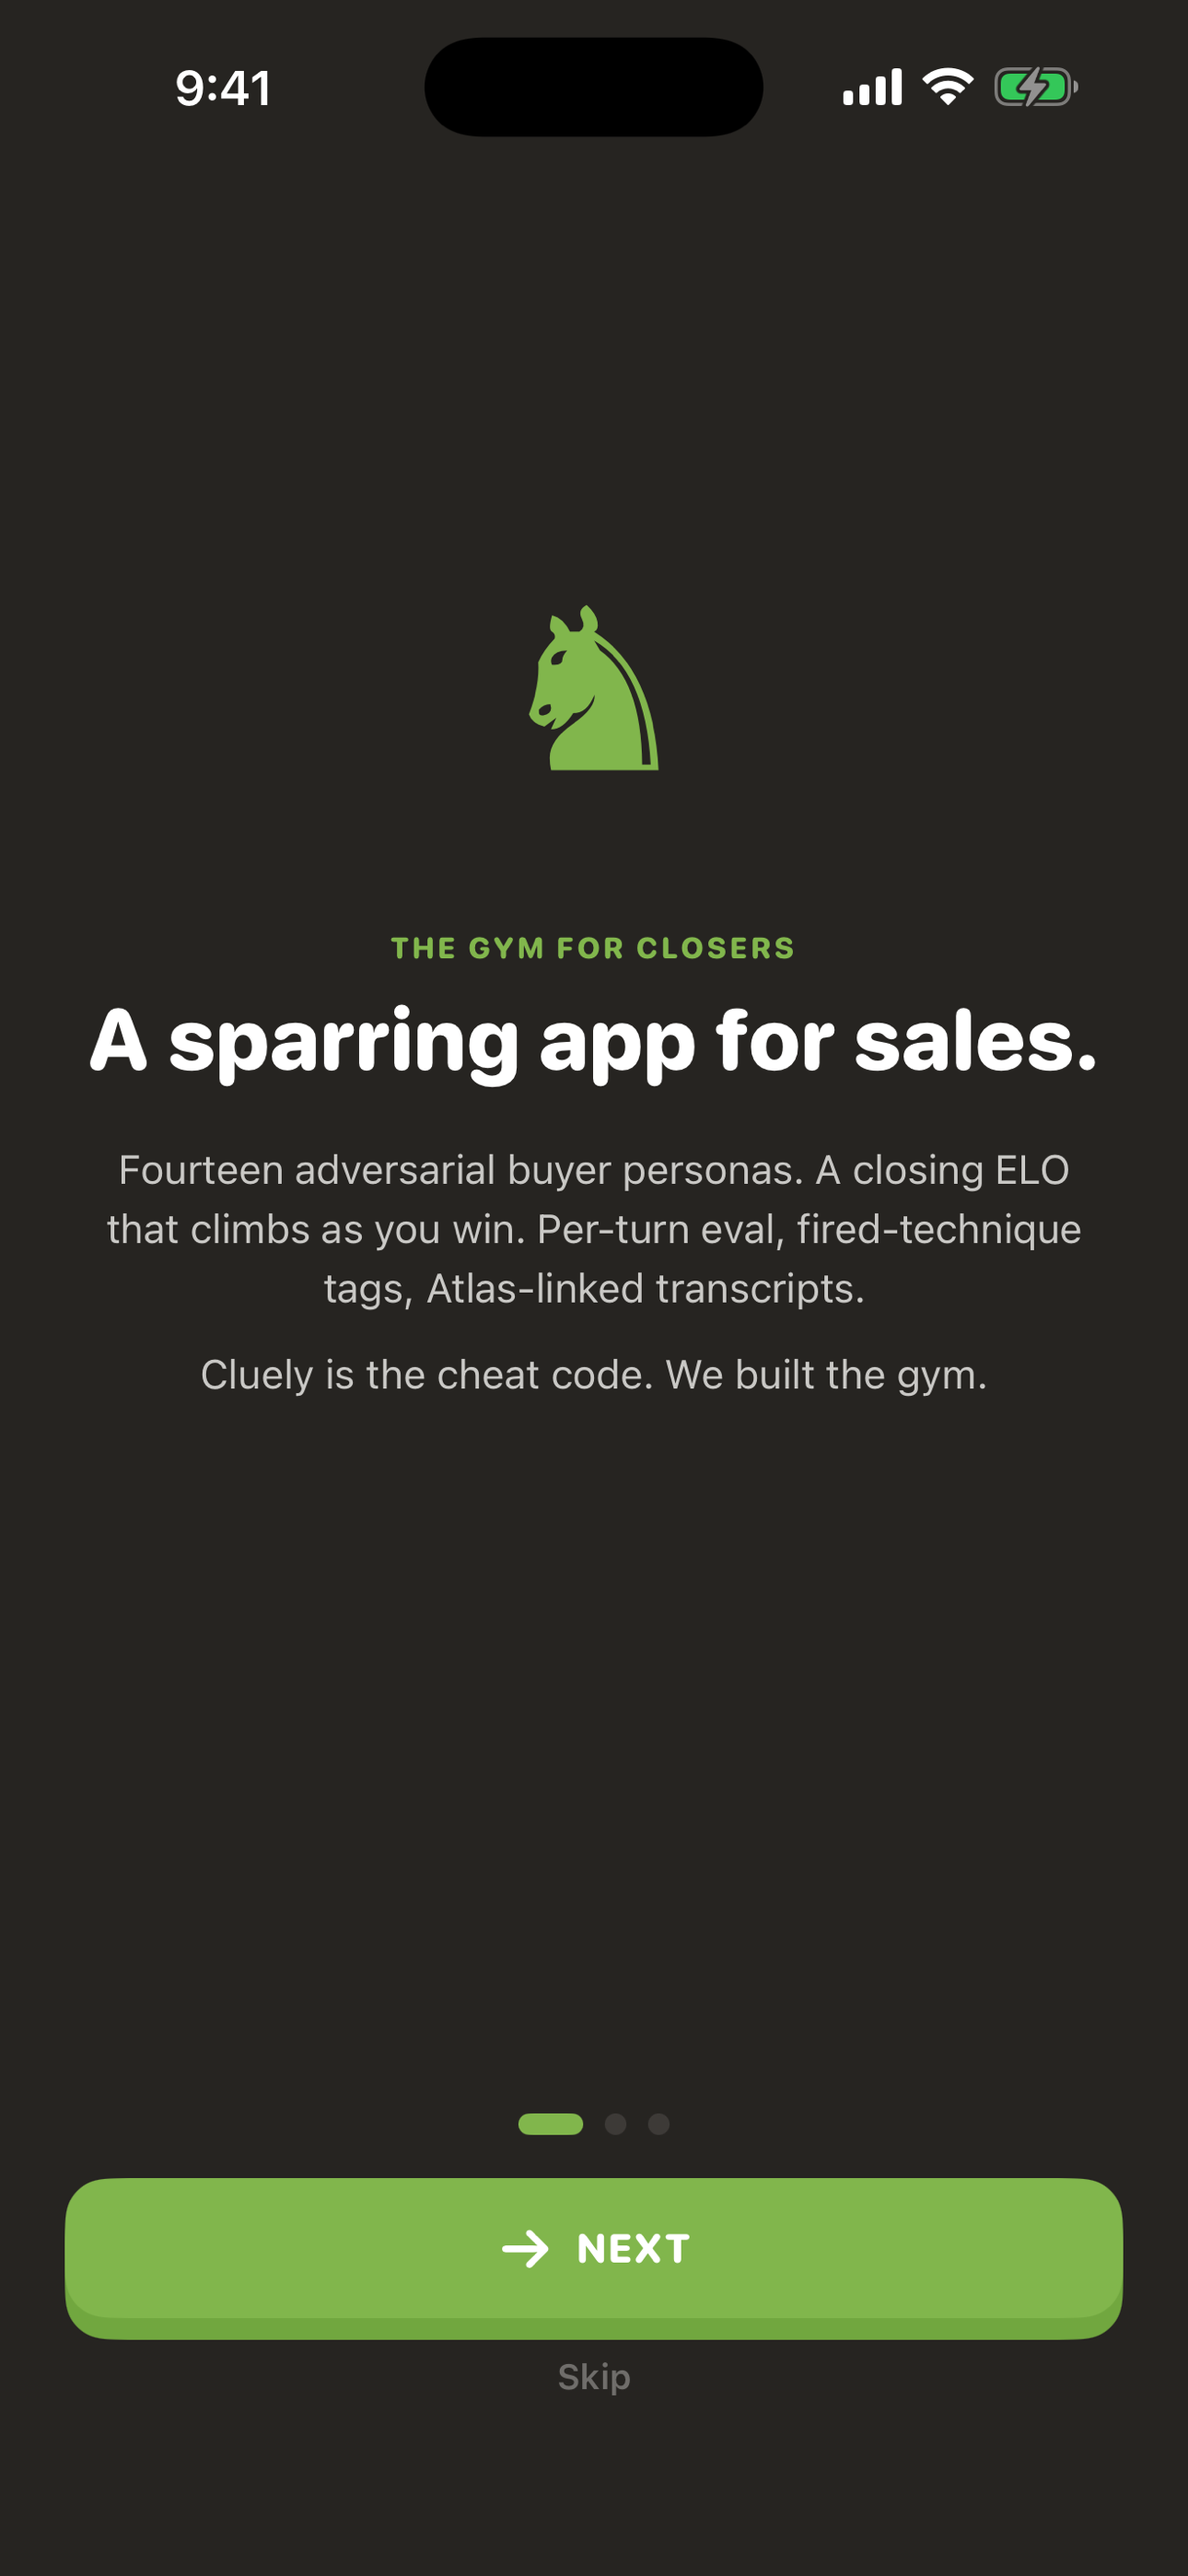
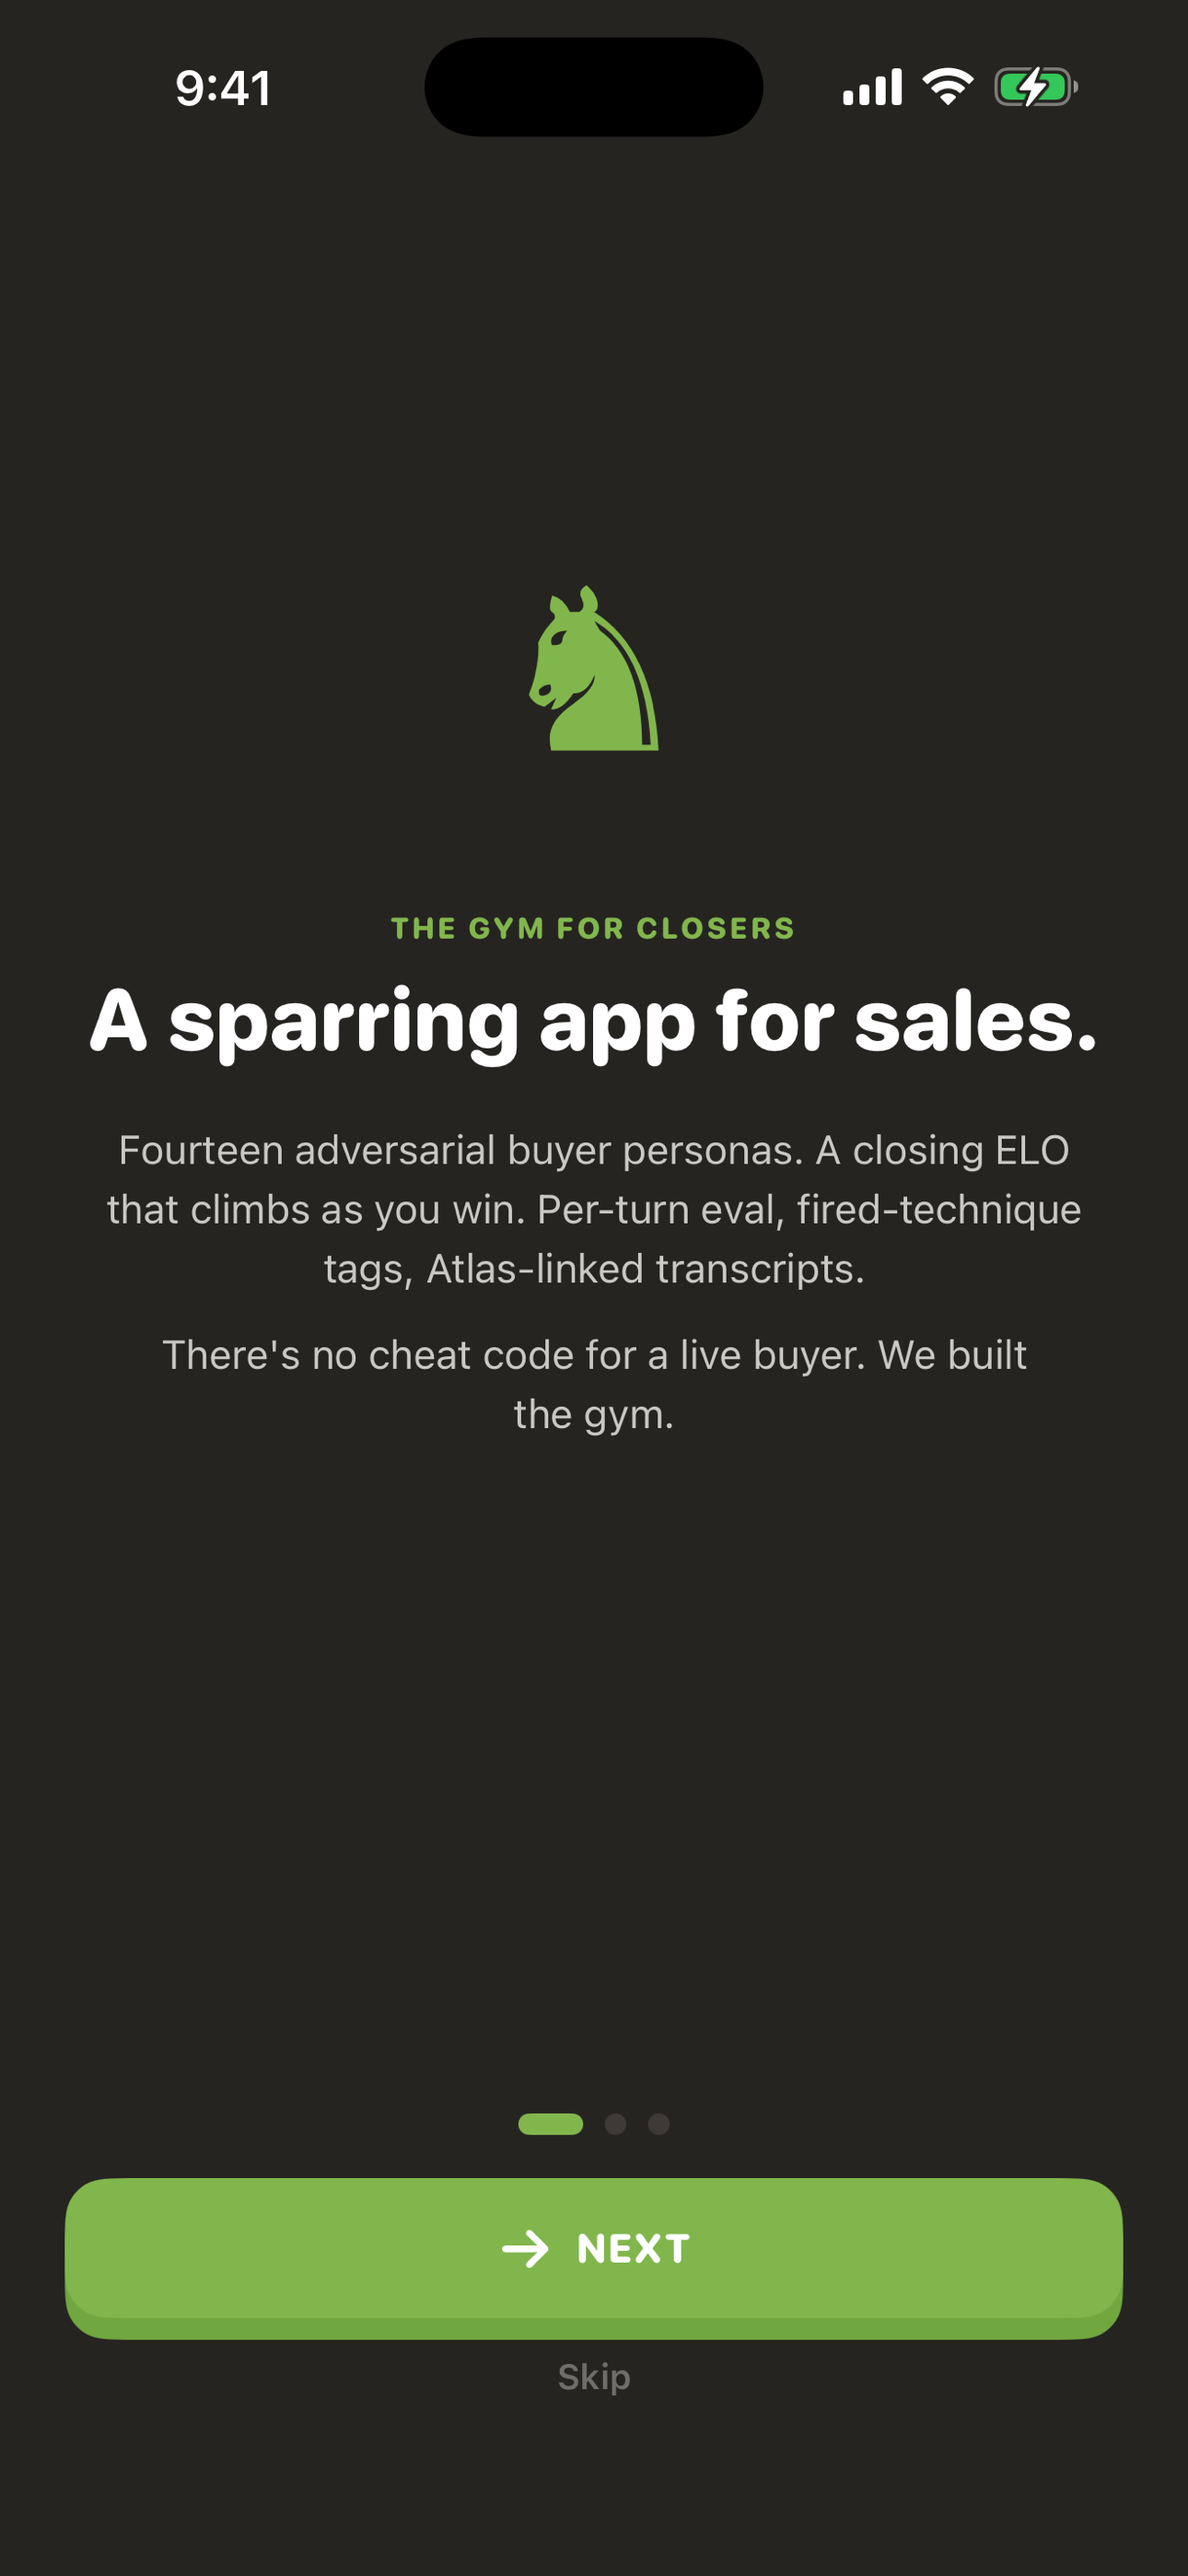
Remove competitor name-drop + fix stale metadata copy
- Drop the Cluely name-drop everywhere (onboarding, profile footer, share card,
  README): "Cluely is the cheat code" -> "There's no cheat code for a live buyer.
  We built the gym." Same positioning, no trademark/competitor in App Store metadata.
- Onboarding master-games line: "real-call replays from Voss/Klaff/Belfort/Cardone/
  Burg" (overclaims actual recordings) -> "hand-authored studies in the style of…",
  matching WatchTab's already-honest framing. Names kept (published-method studies,
  transcripts already carry paraphrase disclaimers).
- Profile Free-vs-Pro card corrected: Sparring is now listed as free/offline; Pro is
  free-text play only. Was stale from before the offline sparring tab existed.
- Regenerate the two affected 6.7" screenshots (onboarding, profile).

Changed region(s): [[0.062, 0.3423, 0.9302, 0.5601], [0.4341, 0.2178, 0.5581, 0.3112], [0.186, 0.529, 0.2791, 0.5601]]

diff --git a/FrameFork/Views/Tabs/ProfileTab.swift b/FrameFork/Views/Tabs/ProfileTab.swift
@@ -176,9 +176,9 @@ struct ProfileTab: View {
     private var freeProCard: some View {
         VStack(alignment: .leading, spacing: 10) {
             Text("Free vs Pro").microLabel(Color.brandGreen)
-            Text("Free: Puzzles, Lessons, Master Games. No API key required.")
+            Text("Free: Sparring, Puzzles, Lessons, Master Games. No key, no account — fully offline.")
                 .scaledFont(size: 13).foregroundStyle(Color.textSecondary).lineSpacing(2)
-            Text("Pro: Bot ladder (\(BotLadder.all.count) personas) + free-text play. Requires your own Anthropic key in Settings.")
+            Text("Pro: Free-text play against all \(BotLadder.all.count) personas. Requires your own Anthropic key in Settings.")
                 .scaledFont(size: 13).foregroundStyle(Color.textSecondary).lineSpacing(2)
         }
         .padding(16)
@@ -194,7 +194,7 @@ struct ProfileTab: View {
             Text("Frame & Fork · v\(Bundle.main.infoDictionary?["CFBundleShortVersionString"] as? String ?? "1.0")")
                 .scaledFont(size: 14, weight: .semibold)
                 .foregroundStyle(Color.textSecondary)
-            Text("Cluely is the cheat code. We built the gym.")
+            Text("There's no cheat code for a live buyer. We built the gym.")
                 .italic()
                 .scaledFont(size: 13)
                 .foregroundStyle(Color.textMuted)

diff --git a/FrameFork/Views/Onboarding/OnboardingView.swift b/FrameFork/Views/Onboarding/OnboardingView.swift
@@ -42,7 +42,7 @@ struct OnboardingView: View {
             title: "A sparring app for sales.",
             bodyLines: [
                 "Fourteen adversarial buyer personas. A closing ELO that climbs as you win. Per-turn eval, fired-technique tags, Atlas-linked transcripts.",
-                "Cluely is the cheat code. We built the gym.",
+                "There's no cheat code for a live buyer. We built the gym.",
             ]
         )
     }
@@ -55,7 +55,7 @@ struct OnboardingView: View {
             title: "Solve. Learn. Climb.",
             bodyLines: [
                 "A fresh Daily Drill every day. 40 Atlas techniques cross-linked to every puzzle, transcript, and master move.",
-                "Watch real-call replays from Voss, Klaff, Belfort, Cardone, Burg. Free tier is fully offline, no API key needed.",
+                "Watch hand-authored studies in the style of Voss, Klaff, Belfort, Cardone, and Burg. Fully offline, no API key needed.",
             ]
         )
     }

diff --git a/FrameFork/Views/Profile/ShareCard.swift b/FrameFork/Views/Profile/ShareCard.swift
@@ -81,7 +81,7 @@ struct ShareCard: View {
 
                 // Footer
                 VStack(alignment: .leading, spacing: 8) {
-                    Text("Cluely is the cheat code. We built the gym.")
+                    Text("There's no cheat code for a live buyer. We built the gym.")
                         .font(.system(size: 28, weight: .semibold))
                         .italic()
                         .foregroundStyle(Color.textSecondary)

diff --git a/README.md b/README.md
@@ -4,7 +4,7 @@
 
 Native iOS port of [closer-gym](https://github.com/Moranetz/closer-gym). Free tier (daily puzzle, 100 hand-authored positions, master games, lessons) ships as a self-contained offline app. Pro tier (bot ladder + free-text play + post-game review) requires a user-supplied Anthropic API key.
 
-**Cluely is the cheat code. We built the gym.**
+**There's no cheat code for a live buyer. We built the gym.**
 
 ---
 
